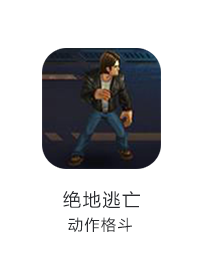
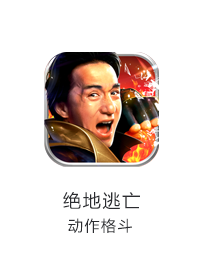
更新首页和手游页面绝地逃亡的图片，更新公司介绍文案

Changed region(s): [[0.201, 0.1771, 0.7751, 0.6494], [0.2871, 0.7085, 0.689, 0.8856]]

diff --git a/xtone-vanggame-front/WebContent/about-us-gsjs.html b/xtone-vanggame-front/WebContent/about-us-gsjs.html
@@ -120,9 +120,11 @@ color: #aaaaaa;
 				<div class="col-md-12 col-sm-12 col-xs-12">
 					<div class="artText ztgs" style="background: #f1f1f1;">
 						<p style="line-height: 1.5;" class="content-size">
-						&nbsp;&nbsp;&nbsp;&nbsp;&nbsp;&nbsp;&nbsp;万家游戏隶属浙江万好万家文化股份有限公司（以下简称万家文化）【股票代码：600576】，系公司资产转型后重磅推出的游戏品牌，也是公司资产重组转型文化游戏领域的重要一步，标志着万家文化高调的向证券市场“亚文化第一股”迈进。该品牌专注游戏的研发和发行，秉承“诚信、勇敢、创新、高效、务实”的核心理念，立志打造成全国乃至全球领先的网络游戏平台。<br><br>
-						&nbsp;&nbsp;&nbsp;&nbsp;&nbsp;&nbsp;&nbsp;凭借多年的游戏运营经验，万家游戏发行了大量经典手机游戏、精品单机游戏等，并推出了许多大IP经典游戏巨制，成功抢占了游戏行业市场份额。目前，万家游戏研发和发行的经典游戏包括《绝地逃亡》、《口袋大冒险》、《电视萌萌答》、《捉妖友人帐》、《神魔战歌》及《死神归来》等，均在市场上引起强烈反响。其提供的海量娱乐产品和完善服务，备受青睐，也为万家游戏积累了全球数十亿的用户。<br><br>
-						&nbsp;&nbsp;&nbsp;&nbsp;&nbsp;&nbsp;&nbsp;而如今，面对互联网和全球化时代的双重机遇，万家游戏还将紧跟市场需求和时代变化，以构建引领全球网络游戏变化的目标而努力奋斗，努力发展成为奠定万家文化在中国亚文化产业中流砥柱地位的基石，为全球玩家创造最好的游戏娱乐生活。				
+						&nbsp;&nbsp;&nbsp;&nbsp;&nbsp;&nbsp;&nbsp;万家游戏是浙江万好万家文化股份有限公司（简称：万家文化，股票代码：600576）旗下全资子公司，万家游戏是万家文化在移动互联网和文化领域的核心战略产业布局，公司成立于2015年11月，总部设在杭州，并在北京、广州、上海、深圳等地设有分公司。<br><br>
+						&nbsp;&nbsp;&nbsp;&nbsp;&nbsp;&nbsp;&nbsp;万家游戏专注精品移动游戏的研发和发行业务，汇聚全球精品游戏，为全球游戏玩家提供高品质的移动游戏，致力成为全球顶尖的移动游戏开发商与发行商，打造全球玩家热爱的游戏品牌。<br><br>
+						&nbsp;&nbsp;&nbsp;&nbsp;&nbsp;&nbsp;&nbsp;万家游戏着重在IP挖掘开发、CP深度合作方面拓展，拥有成龙、范冰冰同名大电影《绝地逃亡》、双截龙等强势IP资源，全面打造影视、动漫、文学、综艺等影游IP资源互动的泛娱乐产业链。<br><br>
+						&nbsp;&nbsp;&nbsp;&nbsp;&nbsp;&nbsp;&nbsp;万家游戏的产品和运营核心团队均来自腾讯、网易、新浪等知名互联网公司，核心团队均拥有8年以上的知名互联网公司从业经验，在产品发行、游戏运营、商务合作和市场推广方面拥有成熟丰富的经验。<br><br>
+						&nbsp;&nbsp;&nbsp;&nbsp;&nbsp;&nbsp;&nbsp;“专注、高效、且富有创造力”是我们引以自豪的企业价值观，坚持“用户第一”的理念，为游戏玩家提供高品质的移动游戏，持续创新，提升玩家体验，我们的愿景是汇聚全球精品游戏，坚持精细化的运营理念，成为深受玩家喜爱的国际化品牌游戏运营商。		
 					</div>
 <!-- 						<img src="images/content/gsjs.png" class="bsimg"> -->
 				</div>

diff --git a/xtone-vanggame-front/WebContent/footer.html b/xtone-vanggame-front/WebContent/footer.html
@@ -15,7 +15,7 @@
 					<li><a href="http://weibo.com/vanggame" target="_blank"><img alt="" src="images/ico-weibo.png"></a>&nbsp;<a href="http://weibo.com/vanggame" target="_blank">微博</a></li>
 				</ul>
 				<p class="footer-fontsize">
-					万家游戏版权所有Copyright2002-2015中国网络游戏版权保护联盟举报中心&nbsp;<a href="http://www.miitbeian.gov.cn/" target="_blank">粤ICP备11029425号-3</a>&nbsp;&nbsp;&nbsp;&nbsp;
+					万家游戏版权所有Copyright2002-2015中国网络游戏版权保护联盟举报中心&nbsp;&nbsp;<a href="http://www.miitbeian.gov.cn/" target="_blank">粤ICP备11029425号-3</a>&nbsp;&nbsp;&nbsp;&nbsp;
 						<img alt="" src="images/index/foot1.png">&nbsp;&nbsp;&nbsp;&nbsp;
 						<img alt="" src="images/index/foot2.png">&nbsp;&nbsp;&nbsp;&nbsp;
 						<img alt="" src="images/index/foot3.png">&nbsp;&nbsp;&nbsp;&nbsp;
